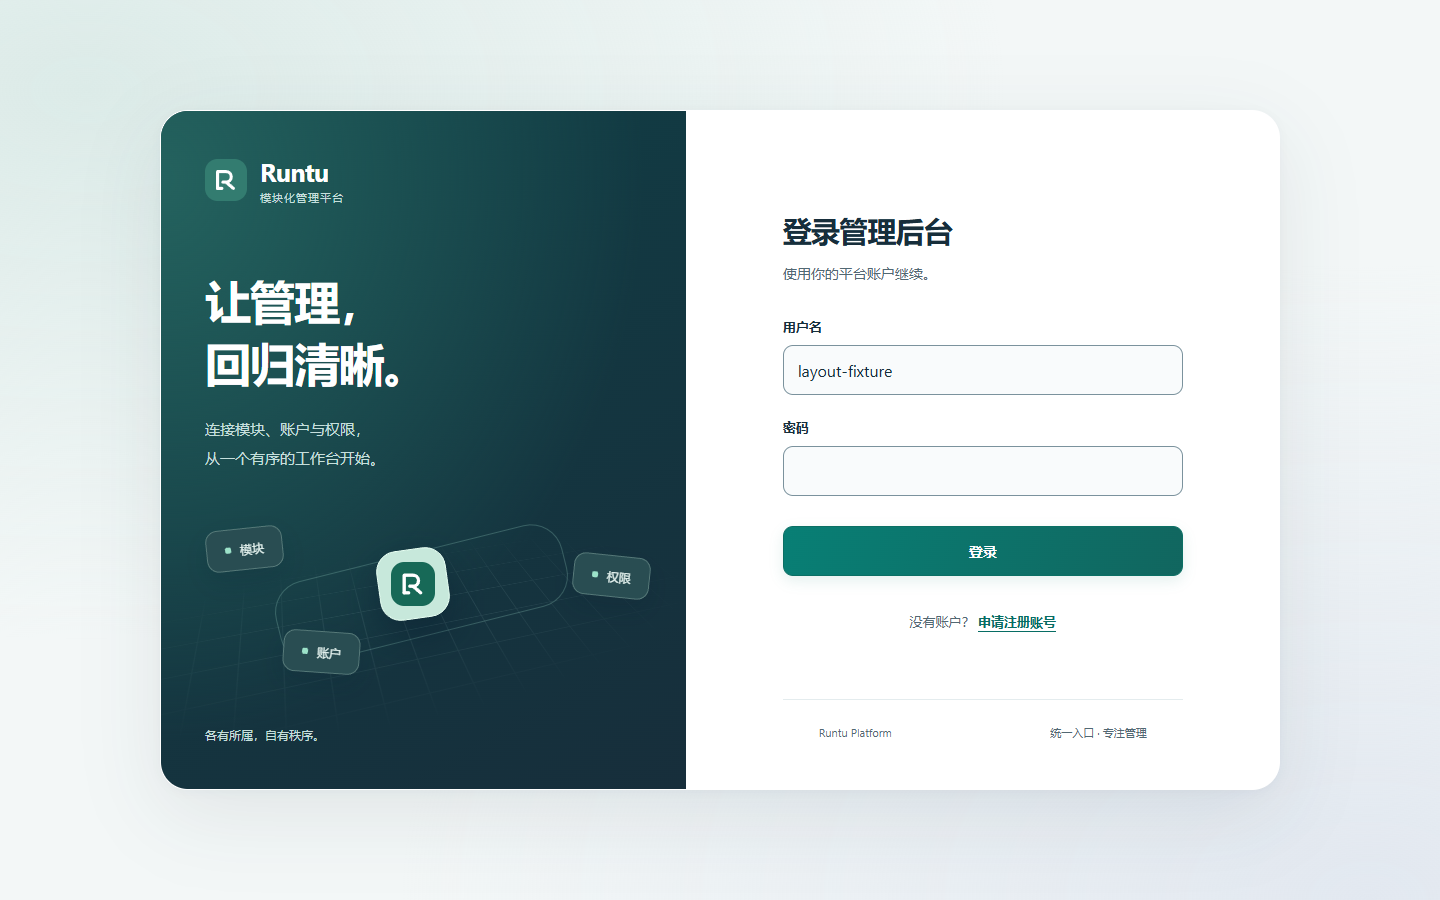
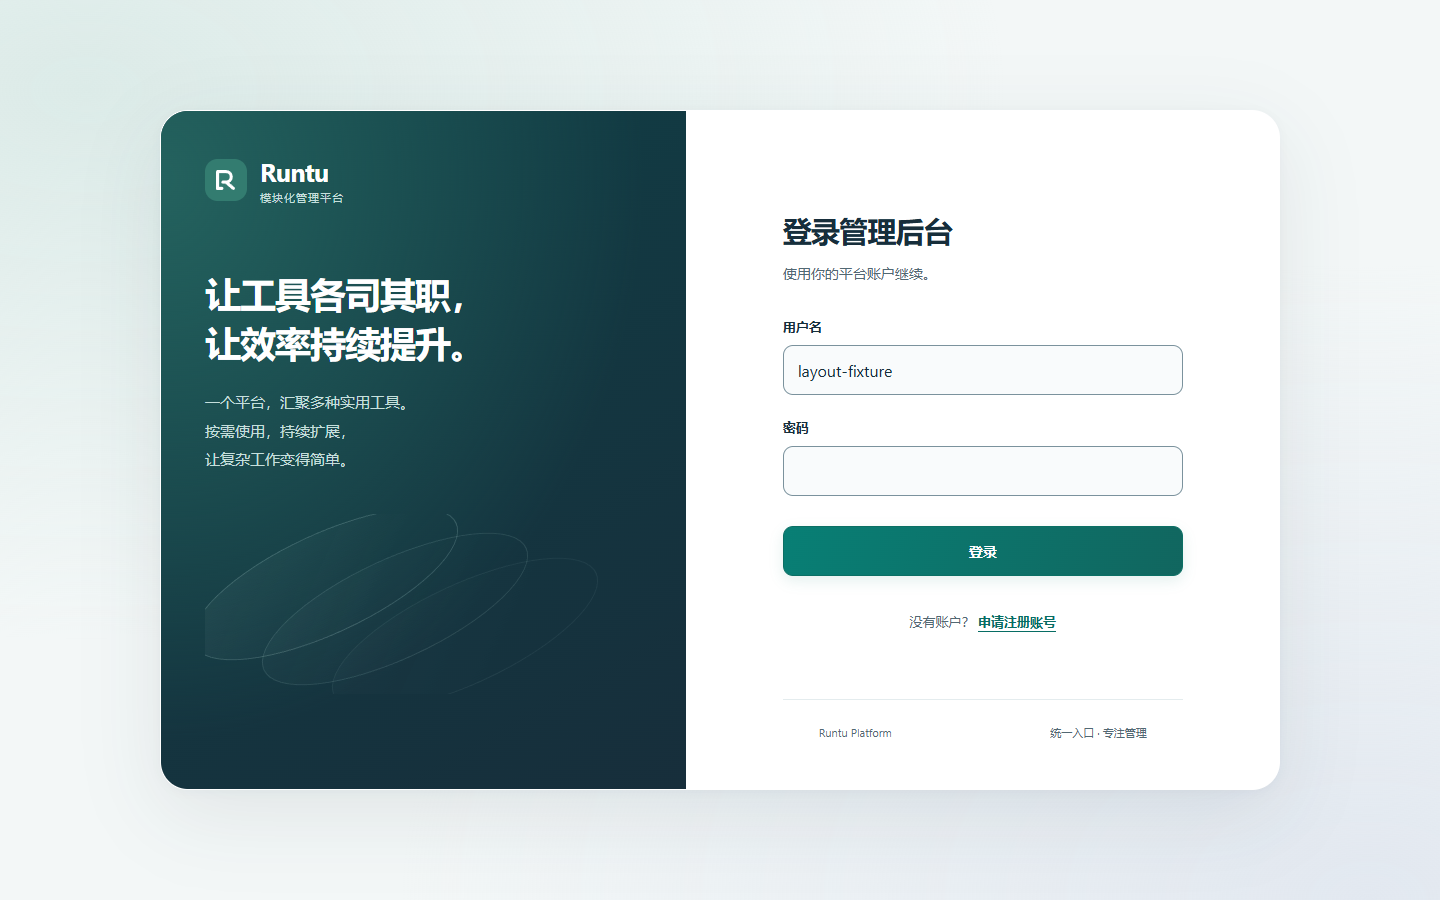
TASK-0039: refine tool-platform copy and gate signup entry

diff --git a/frontend/src/pages/LoginPage.vue b/frontend/src/pages/LoginPage.vue
@@ -1,12 +1,35 @@
 <script setup>
 import { ref, onUnmounted } from 'vue'
-import RouteLink from '../components/RouteLink.vue'
+import { useNavigation } from '../navigation/context.js'
+import { readPublicPolicy } from '../api/registration.js'
 import { login } from '../api/auth.js'
 const emit = defineEmits(['authenticated'])
 const username = ref(''), password = ref(''), pending = ref(false), error = ref('')
+const { navigate } = useNavigation()
+const signupPending = ref(false), signupMessage = ref('')
+let signupController, signupTimer, live = true, cachedPolicy, checkedAt = 0
 let controller, timer
+async function signup() {
+  if (pending.value || signupPending.value) return
+  signupMessage.value = ''
+  if (cachedPolicy && Date.now() - checkedAt < 10000) {
+    if (cachedPolicy.enabled) navigate('/register')
+    else signupMessage.value = '暂未开放注册'
+    return
+  }
+  signupPending.value = true; signupController = new AbortController()
+  signupTimer = setTimeout(() => signupController.abort(), 8000)
+  try {
+    const policy = await readPublicPolicy(signupController.signal)
+    if (!live) return
+    cachedPolicy = policy; checkedAt = Date.now()
+    if (policy.enabled) navigate('/register')
+    else signupMessage.value = '暂未开放注册'
+  } catch { if (live) signupMessage.value = '注册服务暂不可用，请稍后再试' }
+  finally { clearTimeout(signupTimer); if (live) signupPending.value = false }
+}
 async function submit() {
-  if (pending.value) return
+  if (pending.value || signupPending.value) return
   pending.value = true; error.value = ''
   controller = new AbortController()
   timer = setTimeout(() => controller.abort(), 10000)
@@ -21,7 +44,7 @@ async function submit() {
     error.value = failure.name === 'AbortError' ? '请求超时，请重新确认登录状态后重试。' : failure.message || '网络连接失败，请稍后重试。'
   } finally { clearTimeout(timer); pending.value = false }
 }
-onUnmounted(() => { clearTimeout(timer); controller?.abort(); password.value = '' })
+onUnmounted(() => { live = false; clearTimeout(timer); controller?.abort(); clearTimeout(signupTimer); signupController?.abort(); password.value = '' })
 </script>
 <template>
   <section class="login-panel" aria-labelledby="login-title">
@@ -32,8 +55,9 @@ onUnmounted(() => { clearTimeout(timer); controller?.abort(); password.value = '
       <label for="login-password">密码</label>
       <input id="login-password" v-model="password" name="password" type="password" autocomplete="current-password" required maxlength="128" :disabled="pending" />
       <p v-if="error" class="auth-error" role="alert">{{ error }}</p>
-      <button type="submit" class="login-submit" :disabled="pending">{{ pending ? '正在验证…' : '登录' }}</button>
-      <p class="login-help">没有账户？ <RouteLink to="/register">申请注册账号</RouteLink></p>
+      <button type="submit" class="login-submit" :disabled="pending || signupPending">{{ pending ? '正在验证…' : '登录' }}</button>
+      <p class="login-help">没有账户？ <a href="/register" :aria-disabled="pending || signupPending" @click.prevent="signup">申请注册账号</a></p>
+      <p v-if="signupPending || signupMessage" class="signup-notice" role="status" aria-live="polite">{{ signupPending ? '正在确认注册状态…' : signupMessage }}</p>
     </form>
   </section>
 </template>
@@ -48,4 +72,6 @@ onUnmounted(() => { clearTimeout(timer); controller?.abort(); password.value = '
 .login-help { margin: 14px 0 0; color: var(--auth-muted); text-align: center; font-size: 13px; line-height: 2; }
 .login-help a { display: inline-flex; align-items: center; min-height: 44px; font-weight: 600; }
 .auth-error { margin: 0; }
+.signup-notice { margin: 0; text-align: center; color: var(--auth-muted); font-size: 13px; line-height: 1.8; }
+.login-help a[aria-disabled=true] { opacity: .65; cursor: wait; }
 </style>

diff --git a/frontend/src/pages/RegisterPage.vue b/frontend/src/pages/RegisterPage.vue
@@ -10,7 +10,7 @@ async function load() {
   busy.value = true; error.value = ''; policy.value = null
   controller = new AbortController(); timer = setTimeout(() => controller.abort(), 10000)
   try { const value = await readPublicPolicy(controller.signal); if (live) policy.value = value }
-  catch (cause) { if (live) error.value = cause.name === 'AbortError' ? '注册状态查询超时，请重试。' : cause.message }
+  catch { if (live) error.value = '注册服务暂不可用，请稍后再试' }
   finally { clearTimeout(timer); if (live) busy.value = false }
 }
 async function submit() {
@@ -29,13 +29,13 @@ onUnmounted(() => { live = false; controller?.abort(); clearTimeout(timer); if (
     <p class="subtle">新账户为只读成员，业务模块需要管理员另行授权。</p>
     <p v-if="busy" role="status">正在处理…</p>
     <div v-if="submitted" role="status"><h2>申请已提交</h2><p>如该用户名可用且需要审核，新申请将处于待审核状态，批准前无法登录。已有账户不会被重复创建或更改。</p><p>请联系管理员确认。若注册时无需审核，可使用新账户登录。</p></div>
-    <div v-else-if="policy && !policy.enabled" class="registration-closed" role="status"><span class="closed-symbol" aria-hidden="true">—</span><h2>管理员暂未开放注册</h2><p>请联系平台管理员了解开放安排，或使用已有账户返回登录。</p></div>
+    <div v-else-if="policy && !policy.enabled" class="registration-closed" role="status"><span class="closed-symbol" aria-hidden="true">—</span><h2>暂未开放注册</h2></div>
     <form v-else-if="policy?.enabled" @submit.prevent="submit"><fieldset :disabled="busy"><legend class="subtle">{{ policy.approval_required ? '需要所有者审核，批准前无法登录。' : '无需审核，账户创建后可登录。' }}</legend>
       <label>用户名<input v-model="username" required minlength="3" maxlength="64" pattern="[a-z0-9_.\-]{3,64}" autocomplete="username" autocapitalize="none" spellcheck="false" /></label>
       <label>密码<input ref="passwordInput" type="password" required minlength="14" maxlength="128" autocomplete="new-password" /></label>
       <button type="submit">提交注册申请</button>
     </fieldset></form>
-    <p v-if="error" role="alert">{{ error }}</p><button v-if="!submitted" :disabled="busy" @click="load">刷新注册状态</button>
+    <p v-if="error" role="alert">{{ error }}</p>
     <RouteLink to="/login" class="login-link">返回登录</RouteLink>
   </section>
 </template>
@@ -47,6 +47,5 @@ onUnmounted(() => { live = false; controller?.abort(); clearTimeout(timer); if (
 .registration-closed { padding: 24px 20px; margin: 28px 0 22px; border-radius: 14px; background: #eef5f3; border: 1px solid #c5dad3; }
 .closed-symbol { display: inline-grid; place-items: center; width: 32px; height: 32px; background: #d8e9e3; color: #2e6255; border-radius: 50%; margin-bottom: 14px; font-weight: 650; }
 .registration-closed h2 { font-size: 17px; color: var(--auth-navy); margin: 0 0 10px; }
-.registration-closed p { color: var(--auth-muted); margin: 0; line-height: 1.8; font-size: 13px; }
 .login-link { display: flex; align-items: center; justify-content: center; margin-top: 16px; min-height: 44px; font-size: 13px; }
 </style>

diff --git a/docs/AUTH_UI.md b/docs/AUTH_UI.md
@@ -1,17 +1,19 @@
-# 认证页面视觉更新（TASK-0038）
+# 认证页面视觉更新（TASK-0038 / TASK-0039）
 
-沿用Vue3 JavaScript、共享认证布局、现有路由/API与系统字体，无外部图片、字体或依赖。桌面以深青/海军灰品牌区与浅色表单区构成一张双栏面板，模块/账户/权限示意仅为装饰；手机收起品牌说明与装饰，保留紧凑品牌头、表单及页脚。基本色为#103F46、#172E3B、#F3F7F7、#526873和#087F75，按钮及背景使用轻量CSS渐变。
+沿用Vue3 JavaScript、共享认证布局、现有路由/API与系统字体，无外部图片、字体或依赖。桌面以深青/海军灰品牌区与浅色表单区构成一张双栏面板，工具平台文案搭配克制的抽象弧线装饰，移除模块/账户/权限示意；手机收起品牌说明与装饰，保留紧凑品牌头、表单及页脚。基本色为#103F46、#172E3B、#F3F7F7、#526873和#087F75，按钮及背景使用轻量CSS渐变。
 
-登录表单合并为一句“没有账户？ 申请注册账号”，仅后半句是链接。链接仍导航匿名/register；明确读取到enabled=false才显示“管理员暂未开放注册”及返回登录入口，不渲染注册表单。公共404/503仍显示服务不可用，不能误报为关闭或管理员审核错误。注册启用时保留原有表单、提交后提示与密码清空。后端开关继续在写入事务中权威校验，没有自动开启策略。
+登录表单合并为一句“没有账户？ 申请注册账号”，仅后半句是链接。点击链接先查询公开策略：enabled=true才导航/register；false留在/login显示“暂未开放注册”；404/503/网络失败留在/login显示“注册服务暂不可用，请稍后再试”。同一查询进行中忽略快速重复操作，成功查询结果在当前登录组件内复用10秒；失败不缓存，离页取消请求并忽略晚到响应。直接/register仍独立查询策略，关闭时只显示“暂未开放注册”和返回登录；失败显示简洁服务不可用，两者没有刷新按钮，也不显示表单。公共404/503仍显示服务不可用，不能误报为关闭或管理员审核错误。注册启用时保留原有表单、提交后提示与密码清空。后端开关继续在写入事务中权威校验，没有自动开启策略。
 
 共享布局管理登录/注册页标题与统一输入、按钮、错误样式；移除旧页面重复CSS。字段有明确label，autocomplete与键盘顺序保留，操作目标至少44px，密码不持久化；提交中禁用与错误状态保留。文字/主要按钮对比度至少4.5:1，输入边界至少3:1；焦点清晰，prefers-reduced-motion下关闭过渡，无自动播放动画。
 
 会话确认、同源Cookie、CSRF、登录错误401/403、returnTo深链、匿名注册和owner审核权限均沿用现有实现；未新增身份或注册API。未修改后端/迁移、真实数据库或凭据，未重启已有服务或部署。
 
-验证：Node28项和生产构建通过；Python144 passed、11项在线PG本地跳过。Chrome全API夹具1440/390/360覆盖新链接、键盘Tab、登录提交中禁用/密码清空、登录401/403/503、注册关闭/开启/404/503、认证跳转及原模块/owner审核流程；屏宽溢出与减少动态效果检查。截图仅为全API夹具，密码为空，不是真实账户。CI实际结果见PR和协调状态。
+验证：Node28项和生产构建通过；Python144 passed、11项在线PG本地跳过。Chrome全API夹具1440/390/360覆盖新链接预检、快速点击去重、关闭留页、404/503/网络失败、启用跳转、离页取消、键盘Tab、登录提交中禁用/密码清空、登录401/403/503、注册关闭/开启/404/503、认证跳转及原模块/owner审核流程；屏宽溢出与减少动态效果检查。截图仅为全API夹具，密码为空，不是真实账户。CI实际结果见PR和协调状态。
 
 ![桌面登录夹具](images/task-0038/login-desktop.png)
 
 ![手机登录夹具](images/task-0038/login-mobile.png)
 
 ![关闭注册夹具](images/task-0038/registration-closed-mobile.png)
+
+![登录页关闭注册提示夹具](images/task-0038/signup-closed-mobile.png)
